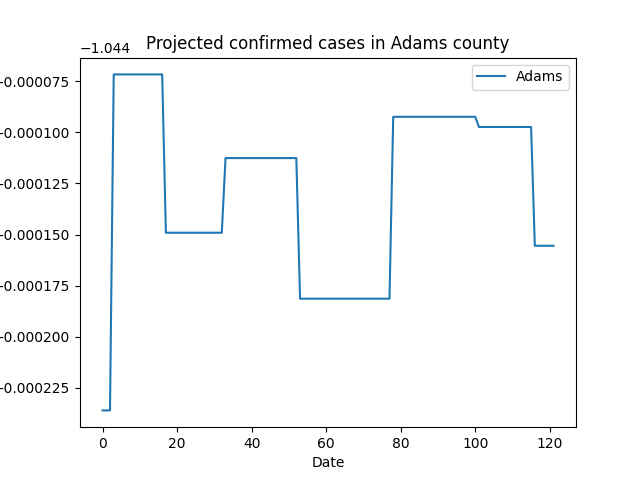
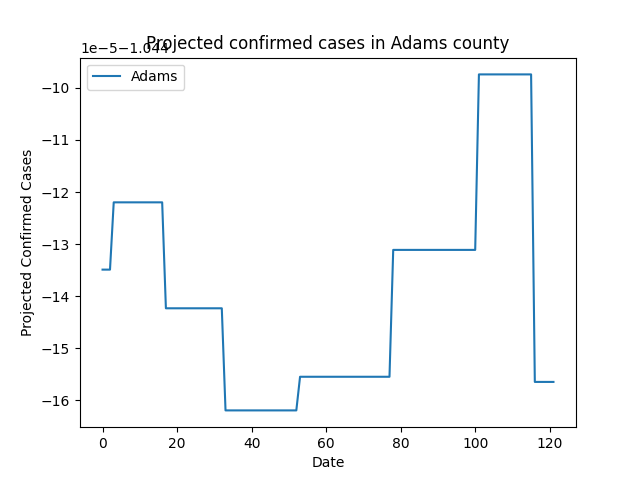
Fixed denormalization function

diff --git a/Case_Analysis.py b/Case_Analysis.py
@@ -18,7 +18,7 @@ from pandas.io.stata import StataReader
 from tensorflow import keras
 from tensorflow.keras import layers
 from tensorflow.python.keras.losses import MeanAbsoluteError
-
+import streamlit as st
 from Case_pipeline import get_cases
 
 # Data importation test
@@ -31,12 +31,13 @@ def preprocessing(case_df):
     region_col = list(case_df.columns.values)
     region_col_ax = region_col[11:]
     plot_cols = region_col_ax
-    state_name = input("Enter state name ") or 'Mississippi'
+    state_name = st.text_input("Enter state name ", 'Mississippi') #or 'Mississippi'
     region = case_df.loc[case_df['Province_State'] == state_name]
     print(region)
+    st.write(region)
     county_list = region['Admin2']
     default_county = county_list.iloc[0]
-    county_name = input("Enter county name ") or default_county   
+    county_name = st.text_input("Enter county name ", "Hinds")# or default_county   
     county = region.loc[region['Admin2'] == county_name]
     columns = columns[5:11]
     county.drop(columns, inplace=True, axis=1)
@@ -76,7 +77,8 @@ def normalize(df, training_mean, training_std):
 
 '''Denormalization'''
 def denormalize(df, training_mean, training_std ):
-    denormalized_df = training_std.values/(df.values - training_mean.values)
+    #denormalized_df = training_std.values/(df.values - training_mean.values)
+    denormalized_df = training_std.values*df.values + training_mean.values
     return denormalized_df
 
 
@@ -131,16 +133,23 @@ def test_predictions(time_series_model, test_df, training_mean, training_std):
 
 #y_pred2 = pd.DataFrame(time_series_model.predict(test_df))
 def plot_case_predictions(predictions, county_name, saved_model):
+    import matplotlib.pyplot as plt
+    import streamlit as st
     predictions.plot(
-        title=("Projected confirmed cases in " + county_name + " county"),
+        title=("Projected COVID-19 cases in " + county_name + " county"),
         legend=[county_name],
         xlabel="Date",
-        ylabel='Projected Confirmed Cases')
+        ylabel='Projected Covid-19 Cases')
     plt.legend([county_name])
-    plt.savefig(saved_model[1])
-    plt.savefig("Predicted Cases")
-    fig = plt.figure()
-    return fig
+    plt.autofmt_xdate()
+   # plt.savefig(saved_model[1])
+    #plt.savefig("Predicted Cases")
+    #fig = plt.figure()
+
+    st.set_option("deprecation.showPyplotGlobalUse", False)
+    st.pyplot()
+    st.map()
+   
 
 def main():
     case_df = get_cases()

diff --git a/Case_Dash_st.py b/Case_Dash_st.py
@@ -4,9 +4,7 @@ import tkinter
 import matplotlib
 matplotlib.use("Tkagg")
 
-st.write("""
-# COVID-19 Confirmed Case Projection App
-""")
+st.title(""" COVID-19 Confirmed Case Projection App""")
 
 case_df = get_cases()
 st.write(case_df)
@@ -19,9 +17,9 @@ test_df = normalize(test_df, training_mean, training_std)
 model = build_time_series_model(test_df, training_df, val_df)
 saved_model = model_save_function(model)
 model_test= test_predictions(model, test_df, training_mean, training_std)
-predicted_cases = plot_case_predictions(model_test, county_name, saved_model)
-st.write(predicted_cases)
+#predicted_cases = plot_case_predictions(model_test, county_name, saved_model)
+plot_case_predictions(model_test, county_name, saved_model)
 
-st.write(predicted_cases)
+
 
 
